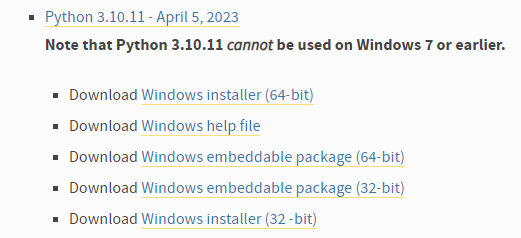
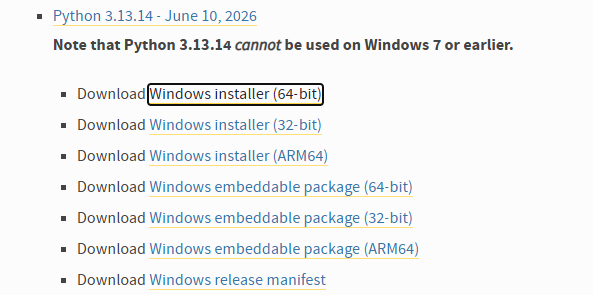
ver restriction relaxed, nocode

diff --git a/docs/no-code/index-ja.html b/docs/no-code/index-ja.html
@@ -26,6 +26,7 @@ body.typora-export { padding-left: 30px; padding-right: 30px; }
 #write li > figure:last-child { margin-bottom: 0.5rem; }
 #write ol, #write ul { position: relative; }
 img { max-width: 100%; vertical-align: middle; image-orientation: from-image; }
+img:not([height]) { height: auto; }
 button, input, select, textarea { color: inherit; font: inherit; }
 input[type="checkbox"], input[type="radio"] { line-height: normal; padding: 0px; }
 *, ::after, ::before { box-sizing: border-box; }
@@ -699,9 +700,9 @@ header, .context-menu, .megamenu-content, footer{
 <title>index-ja</title>
 </head>
 <body class='typora-export os-windows'><div class='typora-export-content'>
-<div id='write'  class=''><h1 id='dialbbノーコードツールdialbb-ncドキュメント'><span>DialBBノーコードツール（DialBB-NC）ドキュメント</span></h1><h2 id='はじめに'><span>はじめに</span></h2><p><span>本ドキュメントはDialBBのノーコードツール（DialBB-NC）のドキュメントです．</span></p><h2 id='動作環境'><span>動作環境</span></h2><p><span>Windows11，MacOSで動作します．</span></p><h2 id='インストール起動windows'><span>インストール・起動（Windows）</span></h2><h3 id='pythonのインストール'><span>Pythonのインストール</span></h3><ul><li><p><span>もし，すでにPythonがインストールされていれば，バージョンを確かめてください．インストールされているかどうかの確かめ方やバージョンの確かめ方はそのうち記述します．インストールされていても，バージョンが3.10-3.13であれば，新しくインストールする必要はありません．3.9以前のPythonがインストールされている場合，使っていないならアンインストールしてください．使っている場合，DialBBの開発者（dialbb あっと c4a.jp）に相談してください．</span></p></li><li><p><span>Windows 11</span></p><ul><li><p><span>Pythonがインストールされていない場合，以下の手順でPythonをインストールします．</span></p><ul><li><p><span>ブラウザのアドレスバーに </span><a href='https://www.python.org/downloads/windows/' target='_blank' class='url'>https://www.python.org/downloads/windows/</a><span> を打ち込んでEnterキーを押します．</span></p></li><li><p><span>表示されている中から以下の部分を探します．以下は3.10.11ですが，3.10.x-3.13.xであれば，別のバージョンでも構いません．</span></p></li></ul><p><img src="images/python-download-win.png" alt="python-install-win-ja"></p><ul><li><p><span>64bit OSの場合は，</span><a href='https://www.python.org/ftp/python/3.10.11/python-3.10.11-amd64.exe'><span>Windows installer (64-bit)</span></a><span>を，32bit OSの場合は</span><a href='https://www.python.org/ftp/python/3.10.11/python-3.10.11.exe'><span>Windows installer (32 -bit)</span></a><span>をクリックします．</span></p></li><li><p><span>「ダウンロード」フォルダに </span><code>python-3.10.11-amd64.exe</code><span>または</span><code>python-3.10.11-amd32.exe</code><span>というファイルができるので，ダブルクリックします．</span></p></li><li><p><span>以下の画面が現れます．</span></p><p><img src="images/python-setup-win.png" alt="python-setup-win"></p><ul><li><p><span>Add python.exe to PATHに</span><strong><span>チェックを入れてから</span></strong><span>Install Nowをクリックします．</span></p><p><img src="images/python-setup-win-path.png" alt="python-setup-win-path"></p></li><li><p><span>Pythonがインストールされます．</span></p></li></ul></li></ul></li></ul></li></ul><h3 id='dialbbのインストール'><span>DialBBのインストール</span></h3><ul><li><p><span>必要なファイルを以下の手順でダウンロードします．</span></p><ul><li><p><span>ブラウザから </span><a href='https://c4a-ri.github.io/dialbb/files/dialbb-setup.zip' target='_blank' class='url'>https://c4a-ri.github.io/dialbb/files/dialbb-setup.zip</a><span> にアクセスします．</span></p></li><li><p><code>ダウンロード</code><span>フォルダに</span><code>dialbb</code><span>ファイルがダウンロードされます．エクスプローラで</span><code>ダウンロード</code><span>フォルダを開いて確認してください．以下のようなファイルができているはずです．</span></p><p><img src="images/dialbb-setup-zip-icon.jpg" alt="dialbb-setup-zip-icon"></p><ul><li><p><span>このようにチャックの模様があるものをzipファイルと呼びます．環境によっては，</span><code>dialbb-setup.zip</code><span>という名前で表示されます．</span></p></li><li><p><span>複数回ダウンロードすると，新しくダウンロードしたものは</span><code>dialbb-setup(1)</code><span>のような名前になるので，その場合，</span><code>ダウンロード</code><span>フォルダの</span><code>dialbb-setup</code><span>を削除してからもう一度ダウンロードしてください．</span></p></li></ul></li></ul></li><li><p><span>エクスプローラで</span><code>dialbb-setup</code><span>アイコンの上にカーソルを持っていき右クリックし，「すべて展開」を選びます．出てきた画面で，「展開」を押してください．</span><code>dialbb-setup</code><span>フォルダができるので，それを開いてください．</span></p></li><li><p><span>install（環境によってはinstall.bat）をダブルクリックします．DialBBがインストールされます．</span></p><ul><li><p><span>「WindowsによってPCが保護されました」と出るかもしれません．その場合，「詳細情報」をクリックすると，「実行」ボタンが出てくるので，それを押してください．</span></p></li><li><p><code>Press any key to continue . . .</code><span>と表示されたらインストールは完了なので，何かキーを押して終了してください．</span></p></li></ul></li></ul><h3 id='起動'><span>起動</span></h3><p><code>dialbb-setup</code><span>フォルダ内で</span><code>start-dialbb-nc</code><span>（または</span><code>start-dialbb-nc.bat</code><span>）をダブルクリックします．</span></p><p><span>正常に起動するとメイン画面が表示されます．</span></p><div align="center">
+<div id='write'  class=''><h1 id='dialbbノーコードツールdialbb-ncドキュメント'><span>DialBBノーコードツール（DialBB-NC）ドキュメント</span></h1><h2 id='はじめに'><span>はじめに</span></h2><p><span>本ドキュメントはDialBBのノーコードツール（DialBB-NC）のドキュメントです．</span></p><h2 id='動作環境'><span>動作環境</span></h2><p><span>Windows11，MacOSで動作します．</span></p><h2 id='インストール起動windows'><span>インストール・起動（Windows）</span></h2><h3 id='pythonのインストール'><span>Pythonのインストール</span></h3><ul><li><p><span>もし，すでにPythonがインストールされていれば，バージョンを確かめてください．インストールされているかどうかの確かめ方やバージョンの確かめ方はそのうち記述します．インストールされていても，バージョンが3.10-3.13であれば，新しくインストールする必要はありません．3.9以前のPythonがインストールされている場合，使っていないならアンインストールしてください．使っている場合，DialBBの開発者（dialbb あっと c4a.jp）に相談してください．</span></p></li><li><p><span>Windows 11</span></p><ul><li><p><span>Pythonがインストールされていない場合，以下の手順でPythonをインストールします．</span></p><ul><li><p><span>ブラウザのアドレスバーに </span><a href='https://www.python.org/downloads/windows/' target='_blank' class='url'>https://www.python.org/downloads/windows/</a><span> を打ち込んでEnterキーを押します．</span></p></li><li><p><span>表示されている中から以下の部分を探します．以下は3.11.9ですが，3.11.x-3.13.xであれば，別のバージョンでも構いません．</span><strong><span>Ver2.0から3.10.xは利用できなくなりました。3.14.xや3.15.xも利用できません</span></strong><span>。</span></p></li></ul><p><img src="images/python-download-win.png" alt="python-install-win-ja"></p><ul><li><p><span>お持ちのPCが64bit OSの場合は，</span><a href='https://www.python.org/ftp/python/3.10.11/python-3.10.11-amd64.exe'><span>Windows installer (64-bit)</span></a><span>を，32bit OSの場合は</span><a href='https://www.python.org/ftp/python/3.10.11/python-3.10.11.exe'><span>Windows installer (32 -bit)</span></a><span>をクリックします．</span></p></li><li><p><span>「ダウンロード」フォルダに </span><code>python-3.12.10-amd64.exe</code><span>または</span><code>python-3.12.10-amd32.exe</code><span>というファイルができるので，ダブルクリックします．</span></p></li><li><p><span>以下の画面が現れます．</span></p><p><img src="images/python-setup-win.png" alt="python-setup-win"></p><ul><li><p><span>Add python.exe to PATHに</span><strong><span>チェックを入れてから</span></strong><span>Install Nowをクリックします．</span></p><p><img src="images/python-setup-win-path.png" alt="python-setup-win-path"></p></li><li><p><span>Pythonがインストールされます．</span></p></li></ul></li></ul></li></ul></li></ul><h3 id='dialbbのインストール'><span>DialBBのインストール</span></h3><ul><li><p><span>必要なファイルを以下の手順でダウンロードします．</span></p><ul><li><p><span>ブラウザから </span><a href='https://c4a-ri.github.io/dialbb/files/dialbb-setup.zip' target='_blank' class='url'>https://c4a-ri.github.io/dialbb/files/dialbb-setup.zip</a><span> にアクセスします．</span></p></li><li><p><code>ダウンロード</code><span>フォルダに</span><code>dialbb</code><span>ファイルがダウンロードされます．エクスプローラで</span><code>ダウンロード</code><span>フォルダを開いて確認してください．以下のようなファイルができているはずです．</span></p><p><img src="images/dialbb-setup-zip-icon.jpg" alt="dialbb-setup-zip-icon"></p><ul><li><p><span>このようにチャックの模様があるものをzipファイルと呼びます．環境によっては，</span><code>dialbb-setup.zip</code><span>という名前で表示されます．</span></p></li><li><p><span>複数回ダウンロードすると，新しくダウンロードしたものは</span><code>dialbb-setup(1)</code><span>のような名前になるので，その場合，</span><code>ダウンロード</code><span>フォルダの</span><code>dialbb-setup</code><span>を削除してからもう一度ダウンロードしてください．</span></p></li></ul></li></ul></li><li><p><span>エクスプローラで</span><code>dialbb-setup</code><span>アイコンの上にカーソルを持っていき右クリックし，「すべて展開」を選びます．出てきた画面で，「展開」を押してください．</span><code>dialbb-setup</code><span>フォルダができるので，それを開いてください．</span></p></li><li><p><span>install（環境によってはinstall.bat）をダブルクリックします．DialBBがインストールされます．</span></p><ul><li><p><span>「WindowsによってPCが保護されました」と出るかもしれません．その場合，「詳細情報」をクリックすると，「実行」ボタンが出てくるので，それを押してください．</span></p></li><li><p><code>Press any key to continue . . .</code><span>と表示されたらインストールは完了なので，何かキーを押して終了してください．</span></p></li></ul></li></ul><h3 id='起動'><span>起動</span></h3><p><code>dialbb-setup</code><span>フォルダ内で</span><code>start-dialbb-nc</code><span>（または</span><code>start-dialbb-nc.bat</code><span>）をダブルクリックします．</span></p><p><span>正常に起動するとメイン画面が表示されます．</span></p><div align="center">
   <img src="images/gui-main-ja.jpg" width="70%">f
-</div><p>&nbsp;</p><h2 id='インストールと起動mac'><span>インストールと起動（Mac）</span></h2><h3 id='pythonのインストール-2'><span>Pythonのインストール</span></h3><p><span>Windowsの場合と同様，Python3.10-3.12がインストールされていれば，新たにインストールする必要はありません．</span></p><p><span>Pythonがインストールされていない場合，以下の手順でインストールしてください．</span></p><ul><li><p><a href='https://www.python.org/downloads/mac-osx/'><span>Pythonの公式ダウンロードサイト</span></a><span>にアクセスしてください．</span></p></li><li><p><span>適当なバージョン（例:3.10.11）の下の，</span><code>macOS 64-bit universal2 installer</code><span>をクリックし，ファイルをダウンロードします．</span></p></li><li><p><span>ダウンロードした </span><code>.pkg</code><span> ファイルを開いて，画面に表示される指示に従いインストールを進めてください．</span></p></li></ul><h3 id='dialbbのインストール-2'><span>DialBBのインストール</span></h3><p><a href='https://c4a-ri.github.io/dialbb/files/dialbb-setup.zip' target='_blank' class='url'>https://c4a-ri.github.io/dialbb/files/dialbb-setup.zip</a><span> から</span><code>dialbb-setup.zip</code><span>ファイルをダウンロードします．Downloadフォルダにダウンロードされます．ターミナルを開きます．適当なディレクトリ（DialBBディレクトリと呼びます）を作って移動してください．</span></p><p><span>そこで，</span></p><pre class="md-fences md-end-block ty-contain-cm modeLoaded" spellcheck="false" lang="sh"><div class="CodeMirror cm-s-inner cm-s-null-scroll CodeMirror-wrap" lang="sh"><div style="overflow: hidden; position: relative; width: 3px; height: 0px; top: 9.5162px; left: 7.98615px;"><textarea autocorrect="off" autocapitalize="off" spellcheck="false" tabindex="0" style="position: absolute; bottom: -1em; padding: 0px; width: 1000px; height: 1em; outline: none;"></textarea></div><div class="CodeMirror-scrollbar-filler" cm-not-content="true"></div><div class="CodeMirror-gutter-filler" cm-not-content="true"></div><div class="CodeMirror-scroll" tabindex="-1"><div class="CodeMirror-sizer" style="margin-left: 0px; margin-bottom: 0px; border-right-width: 0px; padding-right: 0px; padding-bottom: 0px;"><div style="position: relative; top: 0px;"><div class="CodeMirror-lines" role="presentation"><div role="presentation" style="position: relative; outline: none;"><div class="CodeMirror-measure"></div><div class="CodeMirror-measure"></div><div style="position: relative; z-index: 1;"></div><div class="CodeMirror-code" role="presentation"><div class="CodeMirror-activeline" style="position: relative;"><div class="CodeMirror-activeline-background CodeMirror-linebackground"></div><div class="CodeMirror-gutter-background CodeMirror-activeline-gutter" style="left: 0px; width: 0px;"></div><pre class=" CodeMirror-line " role="presentation"><span role="presentation" style="padding-right: 0.1px;">unzip ~/Downloads/dialbb-setup.zip</span></pre></div><pre class=" CodeMirror-line " role="presentation"><span role="presentation" style="padding-right: 0.1px;">pip install <span class="cm-attribute">--force-reinstall</span> *.whl</span></pre></div></div></div></div></div><div style="position: absolute; height: 0px; width: 1px; border-bottom: 0px solid transparent; top: 46px;"></div><div class="CodeMirror-gutters" style="display: none; height: 46px;"></div></div></div></pre><p><span>としてください．DialBBがインストールされます．</span></p><h3 id='起動-2'><span>起動</span></h3><p><span>ターミナルで以下を実行します．（ディレクトリはどこでも構いません）</span></p><pre class="md-fences md-end-block ty-contain-cm modeLoaded" spellcheck="false" lang="sh"><div class="CodeMirror cm-s-inner cm-s-null-scroll CodeMirror-wrap" lang="sh"><div style="overflow: hidden; position: relative; width: 3px; height: 0px; top: 9.5162px; left: 7.98615px;"><textarea autocorrect="off" autocapitalize="off" spellcheck="false" tabindex="0" style="position: absolute; bottom: -1em; padding: 0px; width: 1000px; height: 1em; outline: none;"></textarea></div><div class="CodeMirror-scrollbar-filler" cm-not-content="true"></div><div class="CodeMirror-gutter-filler" cm-not-content="true"></div><div class="CodeMirror-scroll" tabindex="-1"><div class="CodeMirror-sizer" style="margin-left: 0px; margin-bottom: 0px; border-right-width: 0px; padding-right: 0px; padding-bottom: 0px;"><div style="position: relative; top: 0px;"><div class="CodeMirror-lines" role="presentation"><div role="presentation" style="position: relative; outline: none;"><div class="CodeMirror-measure"><pre><span>xxxxxxxxxx</span></pre></div><div class="CodeMirror-measure"></div><div style="position: relative; z-index: 1;"></div><div class="CodeMirror-code" role="presentation"><div class="CodeMirror-activeline" style="position: relative;"><div class="CodeMirror-activeline-background CodeMirror-linebackground"></div><div class="CodeMirror-gutter-background CodeMirror-activeline-gutter" style="left: 0px; width: 0px;"></div><pre class=" CodeMirror-line " role="presentation"><span role="presentation" style="padding-right: 0.1px;">dialbb-nc</span></pre></div></div></div></div></div></div><div style="position: absolute; height: 0px; width: 1px; border-bottom: 0px solid transparent; top: 23px;"></div><div class="CodeMirror-gutters" style="display: none; height: 23px;"></div></div></div></pre><p><span>Macの場合少し画面が乱れます．（修正予定）</span></p><h2 id='アプリケーションの読み込み作成書き出し'><span>アプリケーションの読み込み・作成・書き出し</span></h2><h3 id='アプリケーションの読み込み新規作成'><span>アプリケーションの読み込み/新規作成</span></h3><ul><li><p><span>すでにあるアプリケーションを読み込む場合は，</span><code>選択</code><span>ボタンをクリックし，読み込むアプリケーションのzipファイルを選択し，</span><code>読み込み</code><span>を押します．</span></p><div align="center">
+</div><p>&nbsp;</p><h2 id='インストールと起動mac'><span>インストールと起動（Mac）</span></h2><h3 id='pythonのインストール-2'><span>Pythonのインストール</span></h3><p><span>Windowsの場合と同様，Python3.11-3.13がインストールされていれば，新たにインストールする必要はありません．</span></p><p><span>Pythonがインストールされていない場合，以下の手順でインストールしてください．</span></p><ul><li><p><a href='https://www.python.org/downloads/mac-osx/'><span>Pythonの公式ダウンロードサイト</span></a><span>にアクセスしてください．</span></p></li><li><p><span>適当なバージョン（例:3.13.14）の下の，</span><code>macOS 64-bit universal2 installer</code><span>をクリックし，ファイルをダウンロードします．</span></p></li><li><p><span>ダウンロードした </span><code>.pkg</code><span> ファイルを開いて，画面に表示される指示に従いインストールを進めてください．</span></p></li></ul><h3 id='dialbbのインストール-2'><span>DialBBのインストール</span></h3><p><a href='https://c4a-ri.github.io/dialbb/files/dialbb-setup.zip' target='_blank' class='url'>https://c4a-ri.github.io/dialbb/files/dialbb-setup.zip</a><span> から</span><code>dialbb-setup.zip</code><span>ファイルをダウンロードします．Downloadフォルダにダウンロードされます．ターミナルを開きます．適当なディレクトリ（DialBBディレクトリと呼びます）を作って移動してください．</span></p><p><span>そこで，</span></p><pre class="md-fences md-end-block ty-contain-cm modeLoaded" spellcheck="false" lang="sh"><div class="CodeMirror cm-s-inner cm-s-null-scroll CodeMirror-wrap" lang="sh"><div style="overflow: hidden; position: relative; width: 3px; height: 0px; top: 9.5162px; left: 7.98615px;"><textarea autocorrect="off" autocapitalize="off" spellcheck="false" tabindex="0" style="position: absolute; bottom: -1em; padding: 0px; width: 1000px; height: 1em; outline: none;"></textarea></div><div class="CodeMirror-scrollbar-filler" cm-not-content="true"></div><div class="CodeMirror-gutter-filler" cm-not-content="true"></div><div class="CodeMirror-scroll" tabindex="-1"><div class="CodeMirror-sizer" style="margin-left: 0px; margin-bottom: 0px; border-right-width: 0px; padding-right: 0px; padding-bottom: 0px;"><div style="position: relative; top: 0px;"><div class="CodeMirror-lines" role="presentation"><div role="presentation" style="position: relative; outline: none;"><div class="CodeMirror-measure"></div><div class="CodeMirror-measure"></div><div style="position: relative; z-index: 1;"></div><div class="CodeMirror-code" role="presentation"><div class="CodeMirror-activeline" style="position: relative;"><div class="CodeMirror-activeline-background CodeMirror-linebackground"></div><div class="CodeMirror-gutter-background CodeMirror-activeline-gutter" style="left: 0px; width: 0px;"></div><pre class=" CodeMirror-line " role="presentation"><span role="presentation" style="padding-right: 0.1px;">unzip ~/Downloads/dialbb-setup.zip</span></pre></div><pre class=" CodeMirror-line " role="presentation"><span role="presentation" style="padding-right: 0.1px;">pip install <span class="cm-attribute">--force-reinstall</span> *.whl</span></pre></div></div></div></div></div><div style="position: absolute; height: 0px; width: 1px; border-bottom: 0px solid transparent; top: 46px;"></div><div class="CodeMirror-gutters" style="display: none; height: 46px;"></div></div></div></pre><p><span>としてください．DialBBがインストールされます．</span></p><h3 id='起動-2'><span>起動</span></h3><p><span>ターミナルで以下を実行します．（ディレクトリはどこでも構いません）</span></p><pre class="md-fences md-end-block ty-contain-cm modeLoaded" spellcheck="false" lang="sh"><div class="CodeMirror cm-s-inner cm-s-null-scroll CodeMirror-wrap" lang="sh"><div style="overflow: hidden; position: relative; width: 3px; height: 0px; top: 9.5162px; left: 7.98615px;"><textarea autocorrect="off" autocapitalize="off" spellcheck="false" tabindex="0" style="position: absolute; bottom: -1em; padding: 0px; width: 1000px; height: 1em; outline: none;"></textarea></div><div class="CodeMirror-scrollbar-filler" cm-not-content="true"></div><div class="CodeMirror-gutter-filler" cm-not-content="true"></div><div class="CodeMirror-scroll" tabindex="-1"><div class="CodeMirror-sizer" style="margin-left: 0px; margin-bottom: 0px; border-right-width: 0px; padding-right: 0px; padding-bottom: 0px;"><div style="position: relative; top: 0px;"><div class="CodeMirror-lines" role="presentation"><div role="presentation" style="position: relative; outline: none;"><div class="CodeMirror-measure"><pre><span>xxxxxxxxxx</span></pre></div><div class="CodeMirror-measure"></div><div style="position: relative; z-index: 1;"></div><div class="CodeMirror-code" role="presentation"><div class="CodeMirror-activeline" style="position: relative;"><div class="CodeMirror-activeline-background CodeMirror-linebackground"></div><div class="CodeMirror-gutter-background CodeMirror-activeline-gutter" style="left: 0px; width: 0px;"></div><pre class=" CodeMirror-line " role="presentation"><span role="presentation" style="padding-right: 0.1px;">dialbb-nc</span></pre></div></div></div></div></div></div><div style="position: absolute; height: 0px; width: 1px; border-bottom: 0px solid transparent; top: 23px;"></div><div class="CodeMirror-gutters" style="display: none; height: 23px;"></div></div></div></pre><p><span>Macの場合少し画面が乱れます．（修正予定）</span></p><h2 id='アプリケーションの読み込み作成書き出し'><span>アプリケーションの読み込み・作成・書き出し</span></h2><h3 id='アプリケーションの読み込み新規作成'><span>アプリケーションの読み込み/新規作成</span></h3><ul><li><p><span>すでにあるアプリケーションを読み込む場合は，</span><code>選択</code><span>ボタンをクリックし，読み込むアプリケーションのzipファイルを選択し，</span><code>読み込み</code><span>を押します．</span></p><div align="center">
   <img src="images/gui-select-file-ja.jpg" width="60%">
 </div></li><li><p><span>アプリケーションを新たに作成する場合は，</span><code>新規作成</code><span>ボタンをクリックし，言語を選択します．テンプレートアプリケーションファイルが読み込まれます．  </span></p><div align="center">
   <img src="images/gui-create-ja.jpg" width="60%">

diff --git a/dialbb/builtin_blocks/passage_retrieval/passage_retrieval.py b/dialbb/builtin_blocks/passage_retrieval/passage_retrieval.py
@@ -54,6 +54,7 @@ DEFAULT_EXTENSIONS = {
 
 
 class Retriever(AbstractBlock):
+
     def __init__(self, *args):
         super().__init__(*args)
 

diff --git a/docs/no-code/index-ja.md b/docs/no-code/index-ja.md
@@ -20,13 +20,13 @@ Windows11，MacOSで動作します．
   - Pythonがインストールされていない場合，以下の手順でPythonをインストールします．
 
     - ブラウザのアドレスバーに https://www.python.org/downloads/windows/ を打ち込んでEnterキーを押します．
-    - 表示されている中から以下の部分を探します．以下は3.10.11ですが，3.10.x-3.13.xであれば，別のバージョンでも構いません．
+    - 表示されている中から以下の部分を探します．以下は3.11.9ですが，3.11.x-3.13.xであれば，別のバージョンでも構いません．**Ver2.0から3.10.xは利用できなくなりました。3.14.xや3.15.xも利用できません**。
 
     ![python-install-win-ja](images/python-download-win.png)
 
-    - 64bit OSの場合は，[Windows installer (64-bit)](https://www.python.org/ftp/python/3.10.11/python-3.10.11-amd64.exe)を，32bit OSの場合は[Windows installer (32 -bit)](https://www.python.org/ftp/python/3.10.11/python-3.10.11.exe)をクリックします．
+    - お持ちのPCが64bit OSの場合は，[Windows installer (64-bit)](https://www.python.org/ftp/python/3.10.11/python-3.10.11-amd64.exe)を，32bit OSの場合は[Windows installer (32 -bit)](https://www.python.org/ftp/python/3.10.11/python-3.10.11.exe)をクリックします．
 
-    - 「ダウンロード」フォルダに `python-3.10.11-amd64.exe`または`python-3.10.11-amd32.exe`というファイルができるので，ダブルクリックします．
+    - 「ダウンロード」フォルダに `python-3.12.10-amd64.exe`または`python-3.12.10-amd32.exe`というファイルができるので，ダブルクリックします．
 
     - 以下の画面が現れます．
 
@@ -74,12 +74,12 @@ Windows11，MacOSで動作します．
 
 ### Pythonのインストール
 
-Windowsの場合と同様，Python3.10-3.12がインストールされていれば，新たにインストールする必要はありません．
+Windowsの場合と同様，Python3.11-3.13がインストールされていれば，新たにインストールする必要はありません．
 
 Pythonがインストールされていない場合，以下の手順でインストールしてください．
 
 - [Pythonの公式ダウンロードサイト](https://www.python.org/downloads/mac-osx/)にアクセスしてください．
-- 適当なバージョン（例:3.10.11）の下の，`macOS 64-bit universal2 installer`をクリックし，ファイルをダウンロードします．
+- 適当なバージョン（例:3.13.14）の下の，`macOS 64-bit universal2 installer`をクリックし，ファイルをダウンロードします．
 - ダウンロードした `.pkg` ファイルを開いて，画面に表示される指示に従いインストールを進めてください．
 
 ### DialBBのインストール